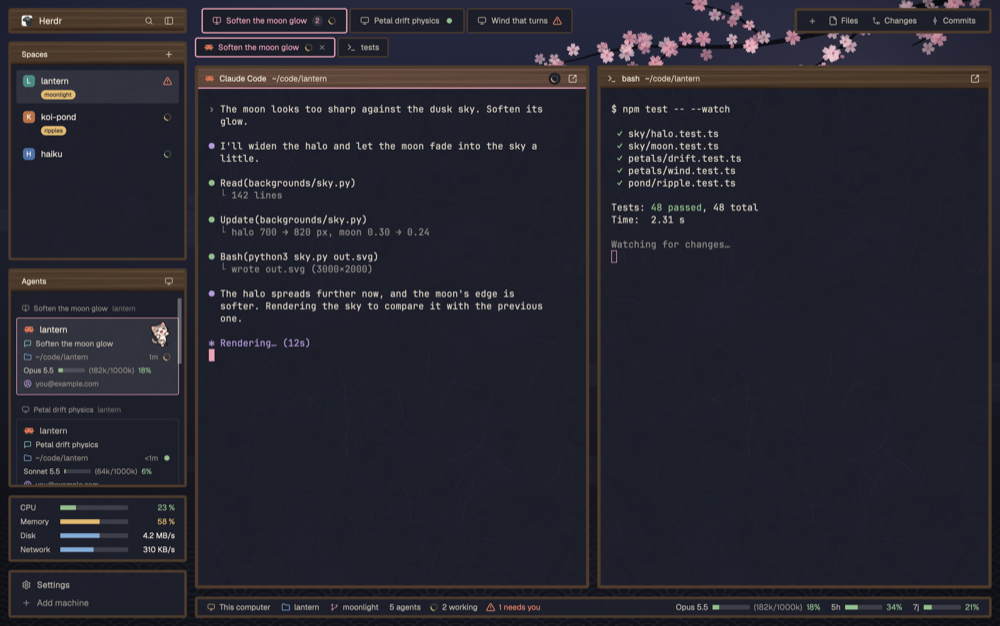
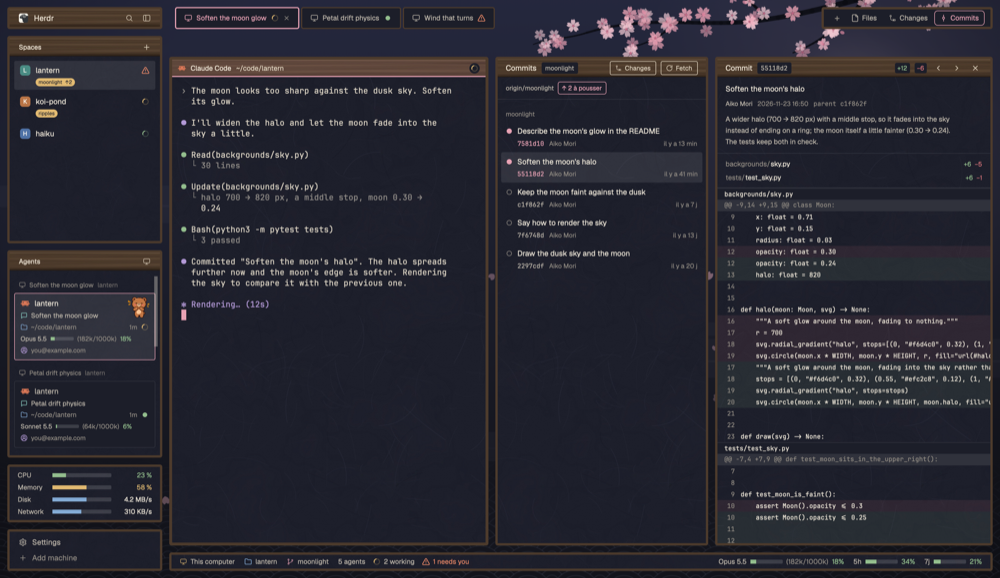
Retake the previews with a commit shown in detail
- preview.png and previews/ retaken from a fresh demo window at 1728×1000: Commits open on
  lantern, whose branch is two commits ahead of its remote, and "Soften the moon's halo"
  shown in detail with its message, files and diff
- RECIPE.md says how the demo picks the commit and why the window is wider

Changed region(s): [[0.0, 0.0, 1.0, 0.9965]]

diff --git a/RECIPE.md b/RECIPE.md
@@ -308,18 +308,22 @@ with faint mottling and fibers, woods with their grain along them, seamless end 
 real one (agent cards show account emails):
 
 - its own home, at a short path (`HERDR_APP_HOME=/tmp/yzh`: the control socket's path has a
-  length limit), seeded with the layout, mods, themes, skies and a `window.json` of 1500×940;
+  length limit), seeded with the layout, mods, themes, skies and a `window.json` of 1728×1000
+  (the widest a 1728 px screen gives; the side panel and the commit detail need the room);
 - its own core: `HC_SESSION` plus scratch `XDG_STATE_HOME`, `XDG_CONFIG_HOME` and
   `XDG_RUNTIME_DIR`. On a shared core, each window adopts the other's terminals (an unknown
   `herdr.space` becomes a new space);
 - `HERDR_RELEASES_URL` pointed nowhere, or an update pill covers the status bar;
 - pretend agents: a script that prints a title (OSC 2), a status (OSC 7501
   `app=claude-code:state=working`) and a transcript wrapped to the pane's columns, with
-  `claude.*` labels set by `hc label` (`you@example.com`), in small git repos under `~/code`;
+  `claude.*` labels set by `hc label` (`you@example.com`), in small git repos under `~/code`
+  (`HOME` set to the demo's, as its real path: `/private/tmp/...` on macOS, or the paths show
+  in full); `lantern` with a few dated commits, its branch two ahead of a local bare remote;
 - the brand card without the traffic lights' room (the shot leaves the system buttons out),
   and the gauges at steady readings rather than the load of the machine taking the shots
-  (both patched in the demo home's copies of the mods); the sidebar at its 268 px, the side
-  panel hidden;
+  (both patched in the demo home's copies of the mods); the sidebar at its 268 px;
+- the side panel on Commits, and a commit picked as a click would (Commits' demo copy picks
+  `lantern`'s second commit once loaded), its detail at 480 px;
 - one agent idle with a command left in its background (a child shell whose arguments hold
   `shell-snapshots`), so its space shows the green spinner;
 - closed with `app.quit`, not killed: a killed window installs a waiting update at its next
